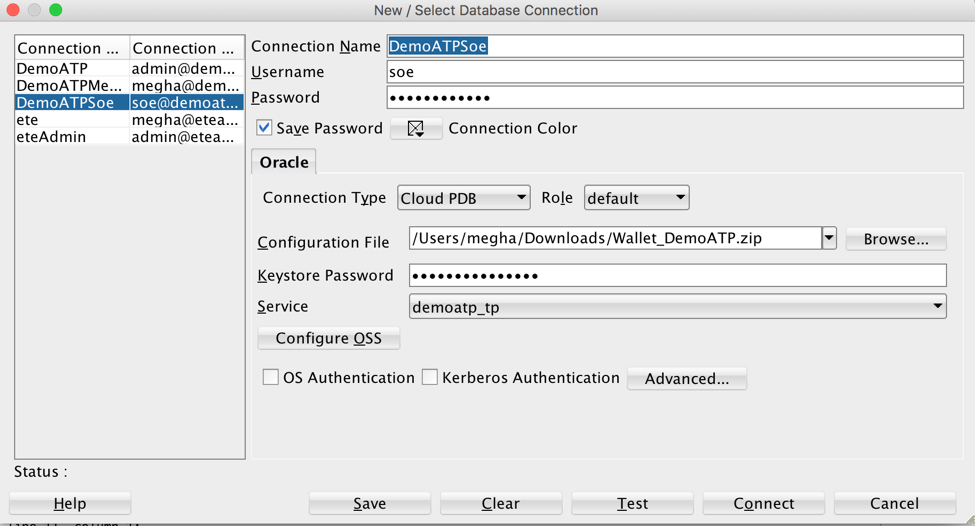
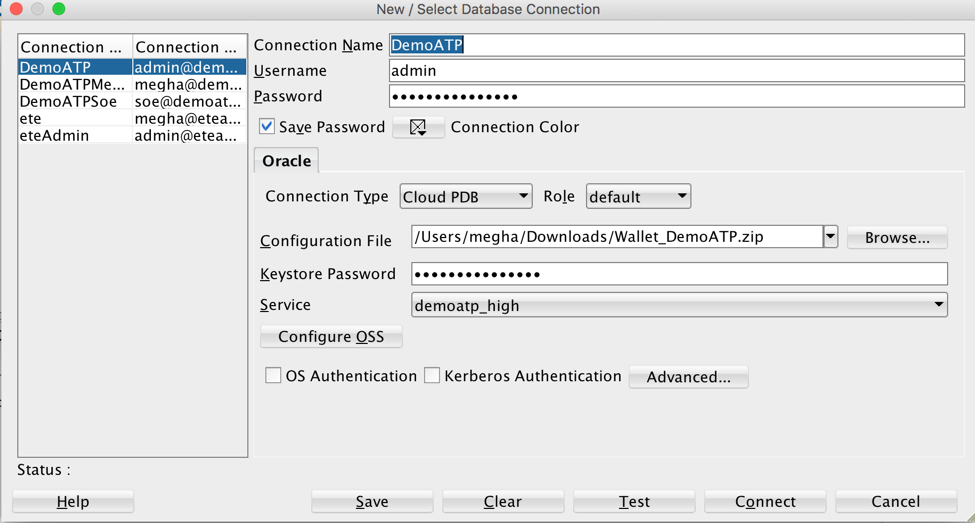
final Version 1.0

diff --git a/README.md b/README.md
@@ -1,36 +1,49 @@
-# Redaction
+#UNIFIED AUDITING
 
-Redaction allows for the masking of sensitive data from the end-user layer. Until now if you wanted to mask the data on real time you needed to do it on the application layer or to use either custom made views or Virtual Private Database, all these solutions lacking functionalities that Data Redaction finally brings. With Data Redaction is now possible to easily totally or partially mask the data, randomize the data and set the masking conditions
+Unified Auditing is enabled by default. You can audit the several types of activities, using unified audit policies and the AUDIT SQL statement.
+All audit records are written to the unified audit trail in a uniform format and are made available through the UNIFIED_AUDIT_TRAIL view.
+The unified audit trail captures audit information from many types of object, from SQL statements to other Oracle Database Components, such as Data Pump, SQL*Loader etc.
 
-  ![](carddetail.png)
+##Benefits of the Unified Audit Trail
+
+- The audit records are placed in one location and in one format, rather than your having to look in different places to find audit trails in varying formats. 
+- This consolidated view enables auditors to co-relate audit information from different components.
+- The management and security of the audit trail is also improved by having it in single audit trail.
+- Overall auditing performance is greatly improved. By default, the audit records are automatically written to an internal relational table
+- You can create named audit policies that enable you to audit the supported components. Furthermore, you can build conditions and exclusions into your policies.
 
 ## Objectives
+	
+The objective of this lab is to create an audit policy for the update done on ORDERS table and then to query UNIFIED_AUDIT_TRAIL to view the generated audit records. 
 
-- The objective of this lab is to mask the CREDIT_NUMBER column from the CREDIT_DETAILS table that we will upload in our autonomous database.
+We will do the following:
+
+- Create an audit policy
+- Enable the policy and apply audit settings to one or more users.
+- View the generated audit records.
 
 ## Required Artifacts
 
 - The following lab requires an Oracle Public Cloud account with Autonomous Data Warehouse Cloud Service.
 
-- You have to grant DBMS_REDACT access to the user. Type the following SQL statement in SQL Workbench while you are still connected to database as admin:
-    
-    **GRANT EXECUTE ON dbms_redact TO user** 
-    
-- Download wallet from Autonomous Database.
+- You need to have a connection to database through admin. 
+
+    - Open up your SQL Developer and create a new connection for admin. If you already have a connection, skip this step. 
+
+    - Enter the following details for admin:
+
+        1.	Connection Name: DemoATP
+        2.	Username: admin
+        3.	Password: Password you entered while creating database on cloud.
+        4.	Connection Type: Cloud PDB
+        5.	Configuration File: Path to your wallet
+        6.	Keystore Password: Password entered while downloading wallet. 
+
+        ![](login.png)
+
+    - Click on Test, if it shows success, click on save and then click on connect. 
     
 ### **Step 1**: Create CREDIT_DETAILS table in Autonomous Database.
-
-- You need to have a connection to database through SQL Developer.
-    1.	Connection Name: give any name
-    2.	Username: enter your username. Here, my user is soe.
-    3.	Password: enter database password
-    4.	Connection Type: Cloud PDB
-    5.	Configuration File: Path to your autonomoud database wallet
-    6.	Keystore Password: Password entered while downloading wallet. 
-
-  ![](login.png)
-
-- Click on Test, if it shows success, click on save and then click on connect. 
 
 - Download the csv file. [CREDIT_DETAILS.csv](card_details.csv)
 
@@ -45,52 +58,83 @@ Redaction allows for the masking of sensitive data from the end-user layer. Unti
         ![](browse.png)
         
     3. Click on next till you reach the review page and click on finish. Table is created and the data is loaded.
+
+### **Step 2**: CREATE AN AUDIT POLICY
+
+- After you are successfully loading the data in database as admin, open up a SQL worksheet and type the following SQL statement:
+
+    **SELECT VALUE FROM V$OPTION WHERE PARAMETER = 'Unified Auditing';**
     
-    
-
-
-### **Step 2**: CREATE REDACTION ON CARD_NUMBER
-
-- We will do redaction on the card_number column of the table CARD_DETAILS. 
-  Let’s look at the details of the table. 
-
-  Copy paste the following command:
-
-  Select * from CARD_DETAILS;
-
+  The result should be TRUE. This shows that the unified auditing is enabled by default in your database. 
+  
   ![](select.png)
 
-- You can see the CARD_NUMBER column in the CARD_DETAILS. 
-
-- Creating a new redaction policy is done using the ADD_POLICY procedure in
-the DBMS_REDACT package. A policy is made up of several distinct sections.
-    
-    - Identify the object : The OBJECT_SCHEMA, OBJECT_NAME and COLUMN_NAME parameters identify the column to be redacted.
-    
-    - Give it a name : The POLICY_NAME parameter assigns a name to the policy.
-    
-    - What should happen? : The FUNCTION_TYPE parameter determines the type of redaction that should take place. The allowable values are listed here. Depending on the type of redaction selected, you may be required to specify the FUNCTION_PARAMETERS or various REGEXP_* parameters.
-    
-    - When should it happen? : The EXPRESSION parameter determines when the redaction should take place. For example, an expression of "1=1" means the redaction will always take place. Alternatively, situational expressions can be defined using the SYS_CONTEXT function.
-
-- Copy paste the following SQL statement :
-
-    **BEGIN
-      DBMS_REDACT.ADD_POLICY(
-      object_name => 'CARD_DETAILS',
-      policy_name => 'CD_POLICY',
-      column_name => 'CARD_NUMBER',
-      function_type => DBMS_REDACT.FULL,
-      expression => '1=1'
-      );
-      END;**
-
-  ![](redaction.png)
-
-- Let’s view the CARD_DETAILS table again. 
-
-  ![](redactedtable.png)
+- Lets create audit policy in card_Detail table. 
+  Enter the following SQL sentence in SQL Worksheet:
   
-  We can see the CARD_NUMBER column is now redacted to the number "0". 
+  **Select * from CARD_DETAIL;**
+  
+    ![](carddetail.png)
+
+- After verifying the data, lets create the audit policy named **AUDIT_CARD**. 
+  This policy will audit the UPDATE activity on CARD_DETAILS table.   
+  
+    ![](audittable.png)
+
+    The output should be “Audit POLICY created”.
+
+### **Step 3**: Enable the policy and apply audit settings to one or more users.
+
+- The AUDIT statement with the POLICY clause enables a unified audit policy. Use the BY clause to apply the policy to one or more users
+  Copy paste the following to your SQL Workbench:
+
+    **audit policy AUDIT_CARD by soe,admin;**
+
+    ![](audituser.png)
+    
+    The output should be “Audit succeeded”.
+    
+**NOTE** : When unified auditing is enabled in Oracle Database, the audit records are populated in this new audit trail. This view displays audit records in tabular form by retrieving the audit records from the audit trail.
+Be aware that if the audit trail mode is QUEUED, then audit records are not written to disk until the in-memory queues are full. The following procedure explicitly flushes the queues to disk, so that you can see the audit trail records in the UNIFIED_AUDIT_TRAIL view:
+
+**EXEC SYS.DBMS_AUDIT_MGMT.FLUSH_UNIFIED_AUDIT_TRAIL;**
 
 
+- Now lets see if the policy is created. Enter the following command in SQL Workbench:
+  
+  **SELECT policy_name, enabled_opt, user_name
+  FROM audit_unified_enabled_policies
+  WHERE policy_name = 'AUDIT_CARD'
+  ORDER BY user_name;**
+
+  ![](auditresult.png)
+
+- The ENABLED_OPT shows if a user can access the policy. You can also exclude users from unified policy: 
+
+  **AUDIT POLICY MYORDERS EXCEPT USERNAME;**
+
+### **Step 3**: View the generated audit records
+  
+- In order to look at all audit records, query the UNIFIED_AUDIT_TRAIL table.
+
+  Copy paste the following SQL statement:
+
+  **select dbusername,event_timestamp,sql_text from unified_audit_trail where unified_audit_policies='AUDIT_CARD';**
+
+  ![](result.png)
+  
+  Right now, there are no updates made on this table, hence it shows no result.
+  
+- Lets update the table. Copy paste the following in your worksheet:
+
+  **update CARD_DETAILS set SECURITY_CODE = 9340 where CARD_ID = 619430;**
+
+  ![](update.png)
+
+- Now run the same command again:
+
+  **select dbusername,event_timestamp,sql_text from unified_audit_trail where unified_audit_policies='AUDIT_CARD';**
+
+  ![](result2.png)
+
+  
